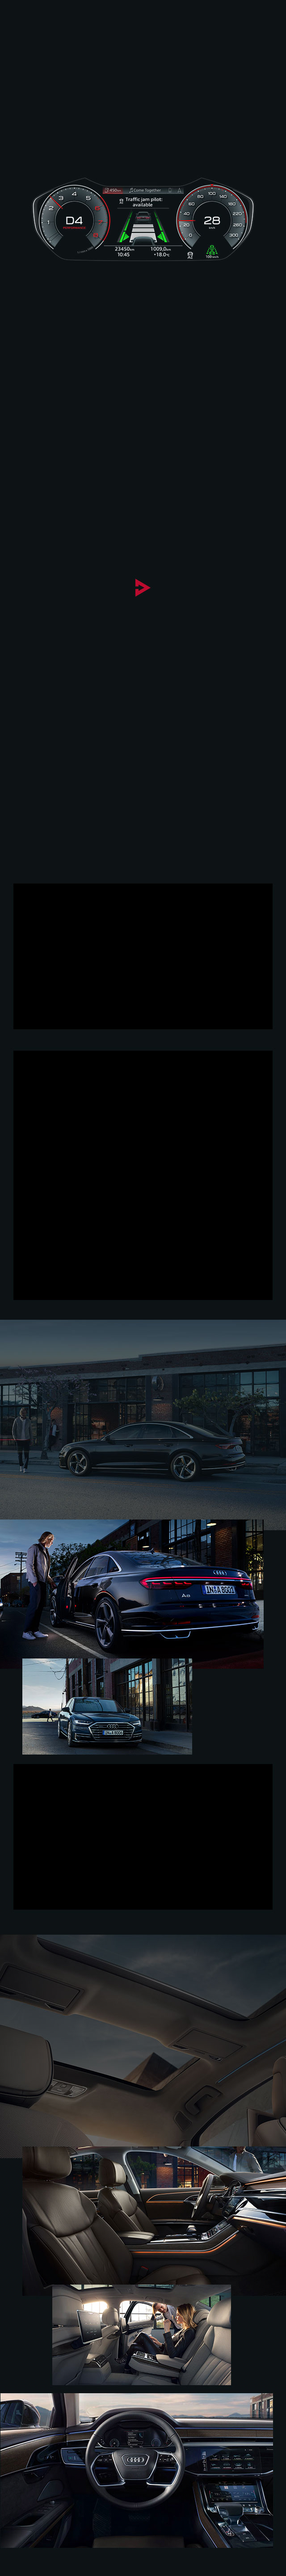
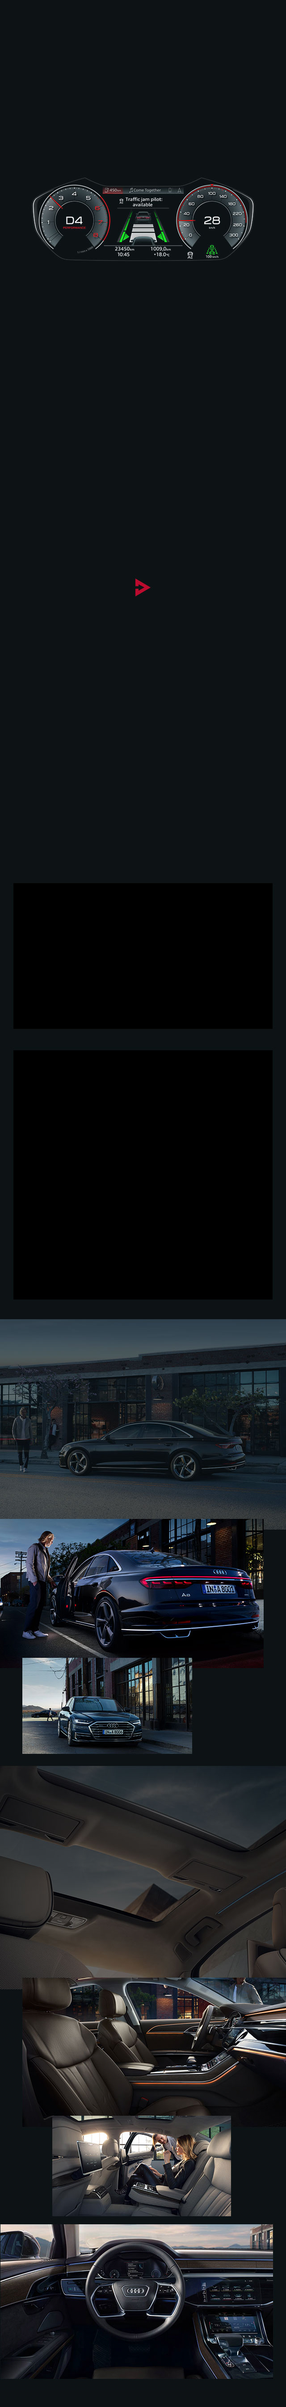
remove inside youtube

Changed region(s): [[0.0, 0.4989, 1.0, 0.9978], [0.0938, 0.0624, 0.9062, 0.1247], [0.4688, 0.2183, 0.5312, 0.2494]]

diff --git a/app/css/layouts/_a8l.scss b/app/css/layouts/_a8l.scss
@@ -47,7 +47,7 @@
             height: auto;
             .background{
                 width: 100%;
-                padding-top: per(5765, 640);
+                padding-top: per(5388, 640);
                 background: left top/cover;
                 &~figure{
                     background: none!important;
